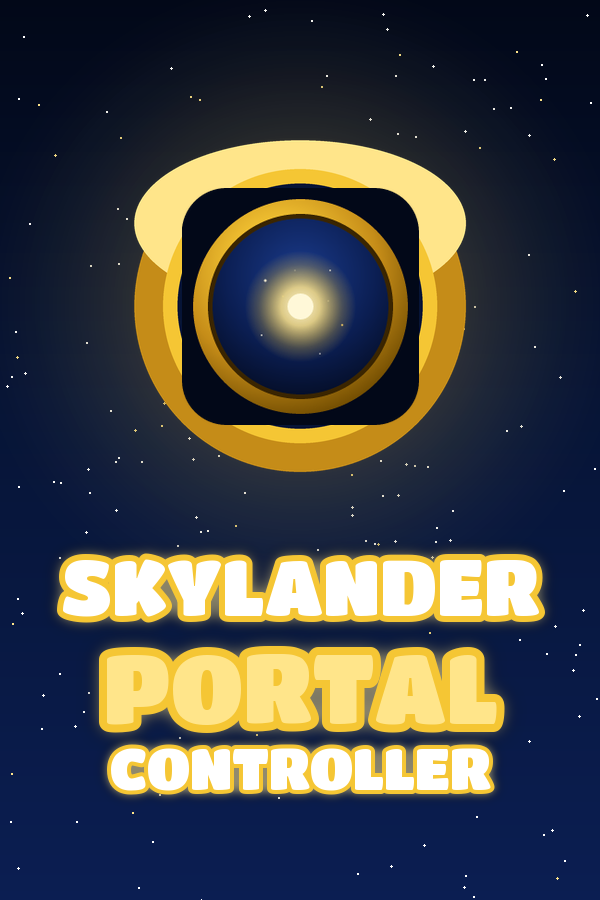
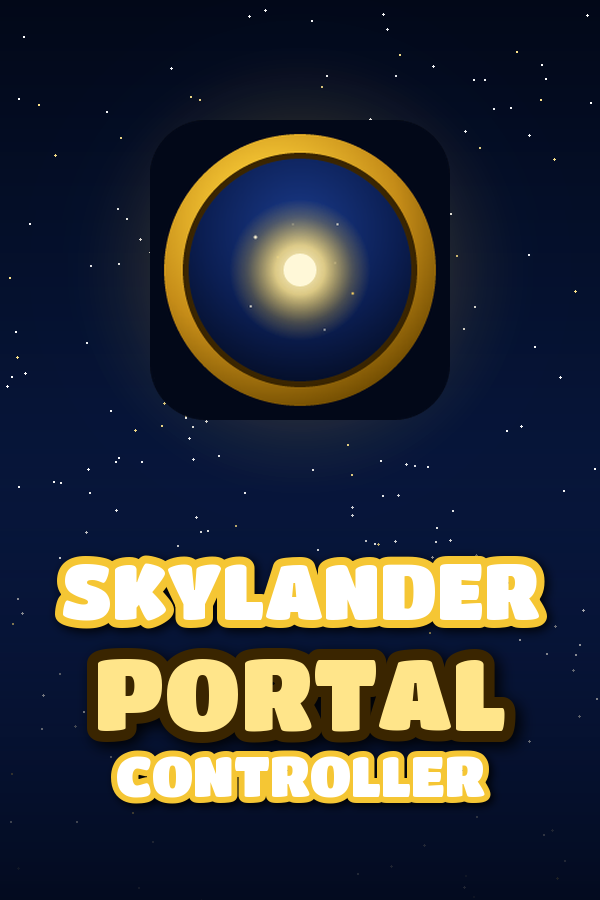
steam-art: fix text contrast + emblem layering
Addresses two issues with the first-pass art:
- Text was low-contrast (gold outline on a bright glow). Now each line gets a
  blurred near-black drop shadow that grounds it on any background, and the
  gold "PORTAL" line uses a dark (GOLD_DEEP) outline so gold-on-gold keeps crisp
  edges. Added a bottom scrim under the portrait's title block.
- The synthetic gold circular bezel wrapped around the square app-icon read as
  a sticker and layered badly on the hero. Dropped it — the icon.ico already IS
  a polished rounded-square portal emblem, so it's used directly with a soft
  gold halo. The hero now uses a faint, slightly-blurred low-opacity icon
  watermark (atmospheric, leaves the left clear for Steam's logo overlay).

Also cleaned up load_icon's dead code. Regenerated steam/*.png.

diff --git a/tools/steam-art/generate.py b/tools/steam-art/generate.py
@@ -30,6 +30,7 @@ SF3 = (0x02, 0x08, 0x18)   # deep, near-black
 GOLD = (0xF5, 0xC6, 0x34)
 GOLD_BRIGHT = (0xFF, 0xE5, 0x8A)
 GOLD_MID = (0xC5, 0x8C, 0x18)
+GOLD_DEEP = (0x3A, 0x25, 0x00)   # dark outline so gold-on-gold text keeps edges
 WHITE = (0xFF, 0xFF, 0xFF)
 
 
@@ -93,51 +94,31 @@ def add_stars(img, count, seed, sizes=(1, 1, 2), gold_ratio=0.18):
 
 
 def load_icon(target):
+    """Load the app .ico (Pillow picks its largest frame) as an RGBA square of
+    `target` px."""
     ico = Image.open(ICON)
-    # Pick the largest frame.
-    best = ico
-    try:
-        best = max(
-            (f.copy() for f in [ico] + [ico.copy()]),
-            key=lambda im: im.size[0],
-        )
-    except Exception:
-        pass
-    ico = Image.open(ICON)
-    ico.size  # noqa
-    big = ico
-    # Pillow loads the largest by default for .ico via .size; force resize.
-    big = ico.convert("RGBA").resize((target, target), Image.LANCZOS)
-    return big
+    ico.size  # force the .ico loader to select the largest frame
+    return ico.convert("RGBA").resize((target, target), Image.LANCZOS)
 
 
-def gold_bezel(size):
-    """A gold ring with a darker inner well, as an RGBA badge of `size`px."""
-    s = size
-    ss = s * 4  # supersample for smooth edges
-    img = Image.new("RGBA", (ss, ss), (0, 0, 0, 0))
-    d = ImageDraw.Draw(img)
-    pad = int(ss * 0.04)
-    # Outer gold ring.
-    d.ellipse([pad, pad, ss - pad, ss - pad], fill=GOLD_MID + (255,))
-    d.ellipse([pad, pad, ss - pad, int(ss * 0.5)], fill=GOLD_BRIGHT + (255,))
-    inner = int(ss * 0.12)
-    d.ellipse([inner, inner, ss - inner, ss - inner], fill=GOLD + (255,))
-    well = int(ss * 0.16)
-    d.ellipse([well, well, ss - well, ss - well], fill=SF2 + (255,))
-    return img.resize((s, s), Image.LANCZOS)
-
-
-def draw_emblem(base, center, diameter):
-    """Gold-bezel ring + glow + icon, composited onto `base` (RGBA)."""
+def place_icon(base, center, size, opacity=255, glow_alpha=130, blur=0):
+    """Composite the app icon (rounded-square portal) with a soft gold halo
+    behind it. No synthetic bezel — the icon already carries the design, and a
+    circular gold ring around a square icon read as a sticker (the hero-layering
+    complaint). The halo separates the blue icon from the blue background."""
     cx, cy = center
-    glow = radial_glow(base.size, center, int(diameter * 0.95), GOLD, 110)
-    base.alpha_composite(glow)
-    bez = gold_bezel(diameter)
-    base.alpha_composite(bez, (cx - diameter // 2, cy - diameter // 2))
-    icon_d = int(diameter * 0.66)
-    icon = load_icon(icon_d)
-    base.alpha_composite(icon, (cx - icon_d // 2, cy - icon_d // 2))
+    if glow_alpha:
+        # Gold halo gives the blue icon a bright rim so it doesn't melt into the
+        # starfield. Sized a touch larger than the icon.
+        base.alpha_composite(radial_glow(base.size, center, int(size * 0.78),
+                                         GOLD, glow_alpha))
+    icon = load_icon(size)
+    if blur:
+        icon = icon.filter(ImageFilter.GaussianBlur(blur))
+    if opacity < 255:
+        a = icon.split()[3].point(lambda v: int(v * opacity / 255))
+        icon.putalpha(a)
+    base.alpha_composite(icon, (cx - size // 2, cy - size // 2))
 
 
 def titan(px):
@@ -145,24 +126,43 @@ def titan(px):
 
 
 def text_centered(base, cx, y, text, px, fill=WHITE, outline=GOLD, ow=None):
-    """Centered TitanOne line with a gold outline + soft glow."""
+    """Centered TitanOne line: a blurred near-black drop shadow for contrast on
+    any background, then the fill with a crisp outline. The shadow (not a bright
+    glow) is what makes white/gold text readable over the starfield."""
     font = titan(px)
     if ow is None:
-        ow = max(2, px // 12)
+        ow = max(3, px // 9)
     draw = ImageDraw.Draw(base)
     bbox = draw.textbbox((0, 0), text, font=font, stroke_width=ow)
     tw = bbox[2] - bbox[0]
     x = cx - tw // 2 - bbox[0]
-    # Soft glow underlay.
-    glow = Image.new("RGBA", base.size, (0, 0, 0, 0))
-    gd = ImageDraw.Draw(glow)
-    gd.text((x, y), text, font=font, fill=GOLD_BRIGHT + (140,),
-            stroke_width=ow + 3, stroke_fill=GOLD_BRIGHT + (140,))
-    glow = glow.filter(ImageFilter.GaussianBlur(px // 10))
-    base.alpha_composite(glow)
+    off = max(3, px // 20)
+    # Dark drop shadow (blurred) underneath — grounds the text on bright areas.
+    sh = Image.new("RGBA", base.size, (0, 0, 0, 0))
+    ImageDraw.Draw(sh).text(
+        (x + off, y + off), text, font=font,
+        fill=(0, 0, 0, 235), stroke_width=ow, stroke_fill=(0, 0, 0, 235),
+    )
+    sh = sh.filter(ImageFilter.GaussianBlur(max(2, px // 14)))
+    base.alpha_composite(sh)
     draw.text((x, y), text, font=font, fill=fill + (255,),
               stroke_width=ow, stroke_fill=outline + (255,))
-    return px + ow * 2  # advance height-ish
+
+
+def bottom_scrim(base, start_frac=0.46, end_alpha=215):
+    """Darken the lower portion (where the title sits) with a transparent->SF3
+    vertical gradient, so the text block always has a dark base to read against."""
+    w, h = base.size
+    layer = Image.new("RGBA", (w, h), (0, 0, 0, 0))
+    px = layer.load()
+    y0 = int(h * start_frac)
+    for y in range(y0, h):
+        t = (y - y0) / max(1, h - y0)
+        a = int(end_alpha * (t ** 1.25))
+        row = SF3 + (a,)
+        for x in range(w):
+            px[x, y] = row
+    base.alpha_composite(layer)
 
 
 def vignette(base, strength=120):
@@ -186,23 +186,27 @@ def background(w, h, star_seed):
 def make_portrait():
     w, h = 600, 900
     base = background(w, h, 11)
-    base.alpha_composite(radial_glow((w, h), (w // 2, int(h * 0.34)), 360, SF1, 90))
-    draw_emblem(base, (w // 2, int(h * 0.34)), 360)
-    text_centered(base, w // 2, int(h * 0.60), "SKYLANDER", 78)
-    text_centered(base, w // 2, int(h * 0.70), "PORTAL", 96, fill=GOLD_BRIGHT)
-    text_centered(base, w // 2, int(h * 0.815), "CONTROLLER", 58)
-    vignette(base, 110)
+    base.alpha_composite(radial_glow((w, h), (w // 2, int(h * 0.30)), 320, SF1, 80))
+    place_icon(base, (w // 2, int(h * 0.30)), 300)
+    # Dark scrim under the title block → high text contrast.
+    bottom_scrim(base, start_frac=0.50, end_alpha=225)
+    text_centered(base, w // 2, int(h * 0.605), "SKYLANDER", 78)
+    text_centered(base, w // 2, int(h * 0.705), "PORTAL", 100,
+                  fill=GOLD_BRIGHT, outline=GOLD_DEEP)
+    text_centered(base, w // 2, int(h * 0.825), "CONTROLLER", 56)
+    vignette(base, 100)
     base.convert("RGB").save(os.path.join(OUT, "library_600x900.png"))
 
 
 def make_header():
     w, h = 920, 430
     base = background(w, h, 23)
-    base.alpha_composite(radial_glow((w, h), (int(w * 0.24), h // 2), 300, SF1, 90))
-    draw_emblem(base, (int(w * 0.22), h // 2), 300)
-    text_centered(base, int(w * 0.63), int(h * 0.30), "SKYLANDER", 56)
-    text_centered(base, int(w * 0.63), int(h * 0.46), "PORTAL", 72, fill=GOLD_BRIGHT)
-    text_centered(base, int(w * 0.63), int(h * 0.66), "CONTROLLER", 44)
+    base.alpha_composite(radial_glow((w, h), (int(w * 0.22), h // 2), 280, SF1, 80))
+    place_icon(base, (int(w * 0.22), h // 2), 260)
+    text_centered(base, int(w * 0.62), int(h * 0.31), "SKYLANDER", 54)
+    text_centered(base, int(w * 0.62), int(h * 0.47), "PORTAL", 72,
+                  fill=GOLD_BRIGHT, outline=GOLD_DEEP)
+    text_centered(base, int(w * 0.62), int(h * 0.66), "CONTROLLER", 42)
     vignette(base, 90)
     base.convert("RGB").save(os.path.join(OUT, "library_header_920x430.png"))
 
@@ -210,21 +214,24 @@ def make_header():
 def make_hero():
     w, h = 1920, 620
     base = background(w, h, 37)
-    base.alpha_composite(radial_glow((w, h), (w // 2, int(h * 0.42)), 520, SF1, 80))
-    # Big faint emblem watermark, off to one side.
-    draw_emblem(base, (int(w * 0.78), int(h * 0.5)), 460)
-    vignette(base, 110)
+    base.alpha_composite(radial_glow((w, h), (int(w * 0.72), int(h * 0.45)), 620, SF1, 95))
+    # Faint, slightly-blurred icon watermark — atmospheric background element,
+    # not a hard sticker, so Steam's logo overlay layers cleanly on top.
+    place_icon(base, (int(w * 0.72), int(h * 0.46)), 520,
+               opacity=70, glow_alpha=70, blur=2)
+    vignette(base, 120)
     base.convert("RGB").save(os.path.join(OUT, "library_hero_1920x620.png"))
 
 
 def make_logo():
-    # Transparent wordmark for Steam's logo overlay.
+    # Transparent wordmark for Steam's logo overlay (sits on the dark hero).
     w, h = 1400, 760
     base = Image.new("RGBA", (w, h), (0, 0, 0, 0))
-    draw_emblem(base, (w // 2, int(h * 0.26)), 300)
-    text_centered(base, w // 2, int(h * 0.50), "SKYLANDER", 96)
-    text_centered(base, w // 2, int(h * 0.63), "PORTAL", 120, fill=GOLD_BRIGHT)
-    text_centered(base, w // 2, int(h * 0.80), "CONTROLLER", 72)
+    place_icon(base, (w // 2, int(h * 0.24)), 280, glow_alpha=90)
+    text_centered(base, w // 2, int(h * 0.49), "SKYLANDER", 96)
+    text_centered(base, w // 2, int(h * 0.62), "PORTAL", 122,
+                  fill=GOLD_BRIGHT, outline=GOLD_DEEP)
+    text_centered(base, w // 2, int(h * 0.79), "CONTROLLER", 72)
     base.save(os.path.join(OUT, "logo.png"))
 
 
